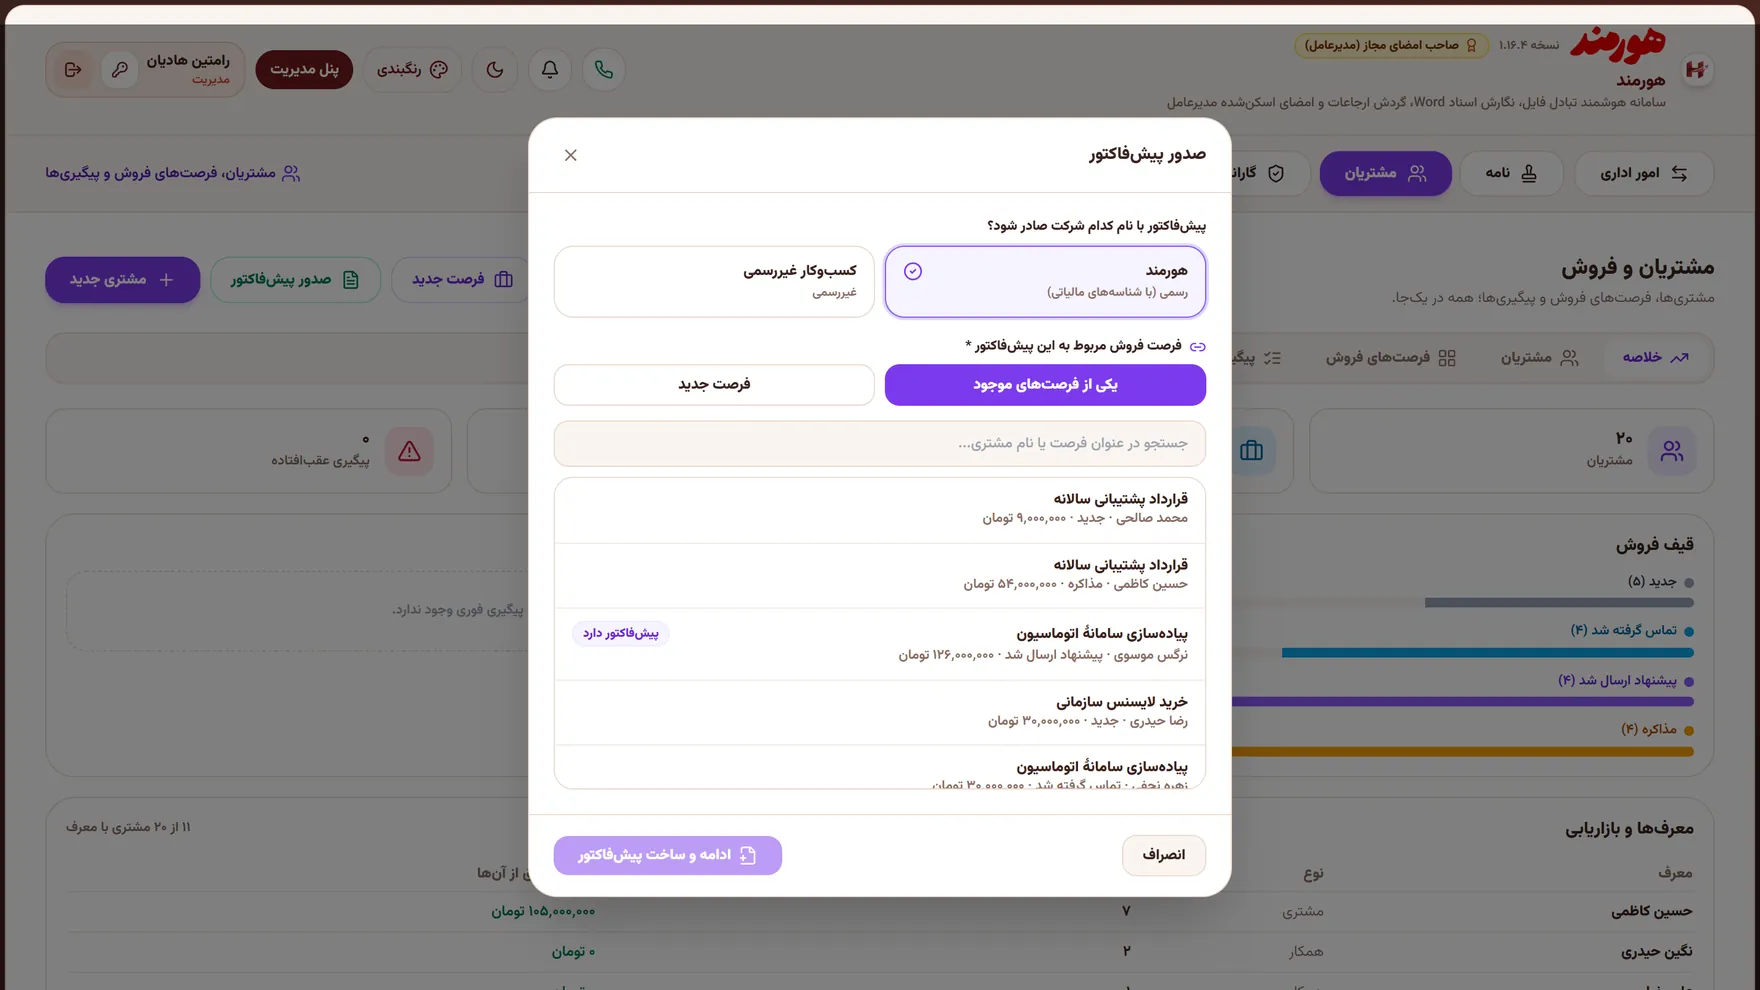
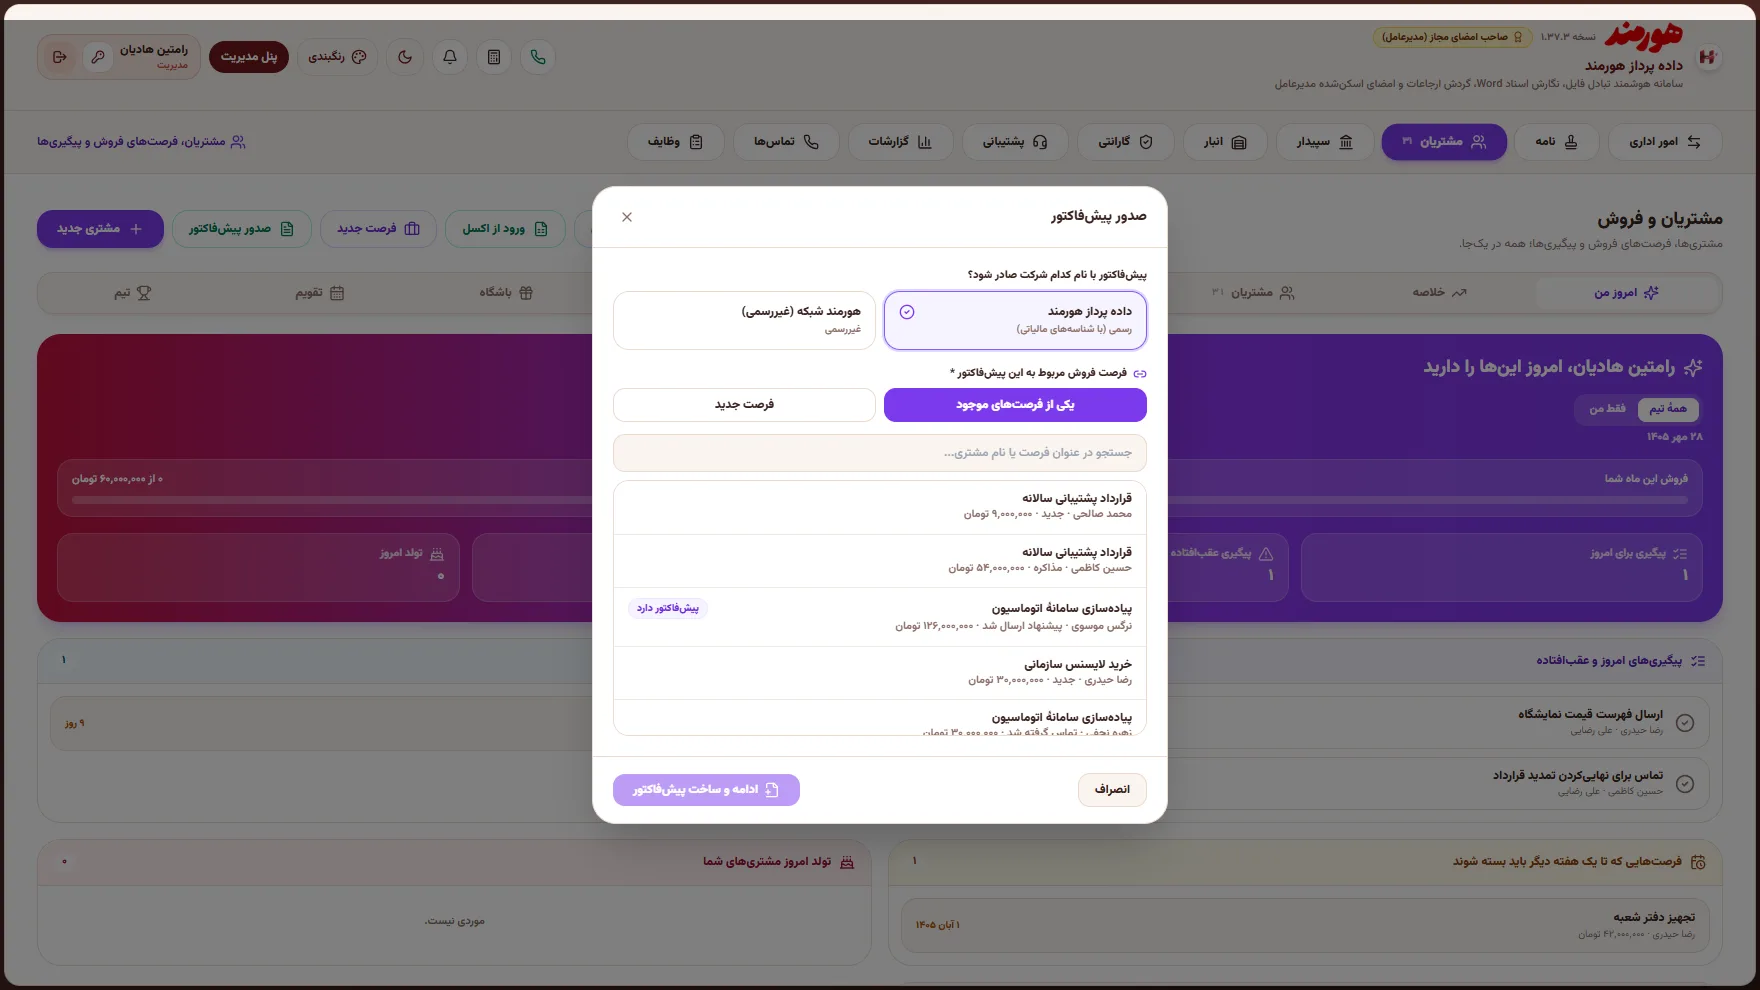
Refresh showcase screenshots (current version) and add calls, Sepidar, warehouse, tasks tabs

diff --git a/hoormand.php b/hoormand.php
@@ -51,7 +51,7 @@ if ($https) { header('Strict-Transport-Security: max-age=31536000; includeSubDom
 <noscript><style>.rv{opacity:1!important;transform:none!important}</style></noscript>
 
 <link rel="preload" href="fonts/Vazirmatn-Bold.woff2" as="font" type="font/woff2" crossorigin="anonymous">
-<link rel="stylesheet" href="styles.css?v=202610201020">
+<link rel="stylesheet" href="styles.css?v=202610201032">
 </head>
 <body>
 
@@ -246,7 +246,11 @@ if ($https) { header('Strict-Transport-Security: max-age=31536000; includeSubDom
         <button role="tab" aria-selected="false" data-img="warranty" data-title="گارانتی" data-text="گارانتی هر کالا با سریال و تاریخ پایان؛ درخواست خرابی مرحلهبهمرحله و گواهی چاپی.">گارانتی</button>
         <button role="tab" aria-selected="false" data-img="support" data-title="پشتیبانی" data-text="پلنها، اشتراک مشتریان، درخواستها با مهلت پاسخ و نمودار وضعیت.">پشتیبانی</button>
         <button role="tab" aria-selected="false" data-img="reports" data-title="گزارشات" data-text="فروش، تماسهای بیپاسخ، وظایف عقبافتاده، گارانتی و پشتیبانی با نمودار.">گزارشات</button>
-        <button role="tab" aria-selected="false" data-img="admin" data-title="کنسول مدیریت" data-text="کاربران و دسترسیها، نام و هویت شرکت، سربرگ نامهها، پیامک، تلفن و پشتیبانگیری.">کنسول مدیریت</button>
+        <button role="tab" aria-selected="false" data-img="sc_calls" data-title="تماسها" data-text="همهٔ تماسهای شرکت با وضعیت، مدت، مشتری و ضبط مکالمه؛ هر همکار فقط تماسهای خودش را میبیند.">تماسها</button>
+        <button role="tab" aria-selected="false" data-img="sc_sepidar" data-title="سپیدار" data-text="پیشفاکتور، فاکتور و دریافتی در اتصال به حسابداری سپیدار؛ ارسال از هورمند و دسترسی جدا برای هر بخش.">سپیدار</button>
+        <button role="tab" aria-selected="false" data-img="sc_warehouse" data-title="انبار" data-text="کالا و خدمات با گروهبندی، موجودی هر انبار، حداقل هشدار و اسناد رسید، حواله و انتقال.">انبار</button>
+        <button role="tab" aria-selected="false" data-img="sc_tasks" data-title="وظایف" data-text="تابلوی وظایف با مسئول، مهلت و اولویت، و گزارش کار روزانهٔ همکاران.">وظایف</button>
+        <button role="tab" aria-selected="false" data-img="admin" data-title="کنسول مدیریت" data-text="کاربران و جدول دسترسیها، داخلیهای تلفن، پوشهٔ غیرفعالها، پیامک، سپیدار و تنظیمات سامانه.">کنسول مدیریت</button>
       </div>
       <div class="stage">
         <div class="dev big">
@@ -259,6 +263,10 @@ if ($https) { header('Strict-Transport-Security: max-age=31536000; includeSubDom
             <img src="img/warranty.webp" alt="سامانهٔ ثبت گارانتی" data-k="warranty" loading="lazy" width="1760" height="990">
             <img src="img/support.webp" alt="پلنها و اشتراک پشتیبانی" data-k="support" loading="lazy" width="1760" height="990">
             <img src="img/reports.webp" alt="گزارشات مدیریتی فروش و پشتیبانی" data-k="reports" loading="lazy" width="1760" height="990">
+            <img src="img/sc_calls.webp" alt="تماسهای شرکت و سابقهٔ تماس" data-k="sc_calls" loading="lazy" width="1760" height="990">
+            <img src="img/sc_sepidar.webp" alt="اتصال به سپیدار: پیشفاکتور و فاکتور" data-k="sc_sepidar" loading="lazy" width="1760" height="990">
+            <img src="img/sc_warehouse.webp" alt="انبار و موجودی کالا با گروهبندی" data-k="sc_warehouse" loading="lazy" width="1760" height="990">
+            <img src="img/sc_tasks.webp" alt="تابلوی وظایف و گزارش روزانه" data-k="sc_tasks" loading="lazy" width="1760" height="990">
             <img src="img/admin.webp" alt="کنسول مدیریت کاربران و دسترسیها" data-k="admin" loading="lazy" width="1760" height="990">
           </div>
         </div>
@@ -354,6 +362,6 @@ if ($https) { header('Strict-Transport-Security: max-age=31536000; includeSubDom
 </footer>
 
 <script nonce="<?= $nonce ?>">window.HOORMAND_CONTACT = <?= json_encode($contact, JSON_UNESCAPED_UNICODE | JSON_HEX_TAG | JSON_HEX_AMP | JSON_HEX_APOS | JSON_HEX_QUOT) ?>;</script>
-<script src="app.js?v=202610201020" defer></script>
+<script src="app.js?v=202610201032" defer></script>
 </body>
 </html>
